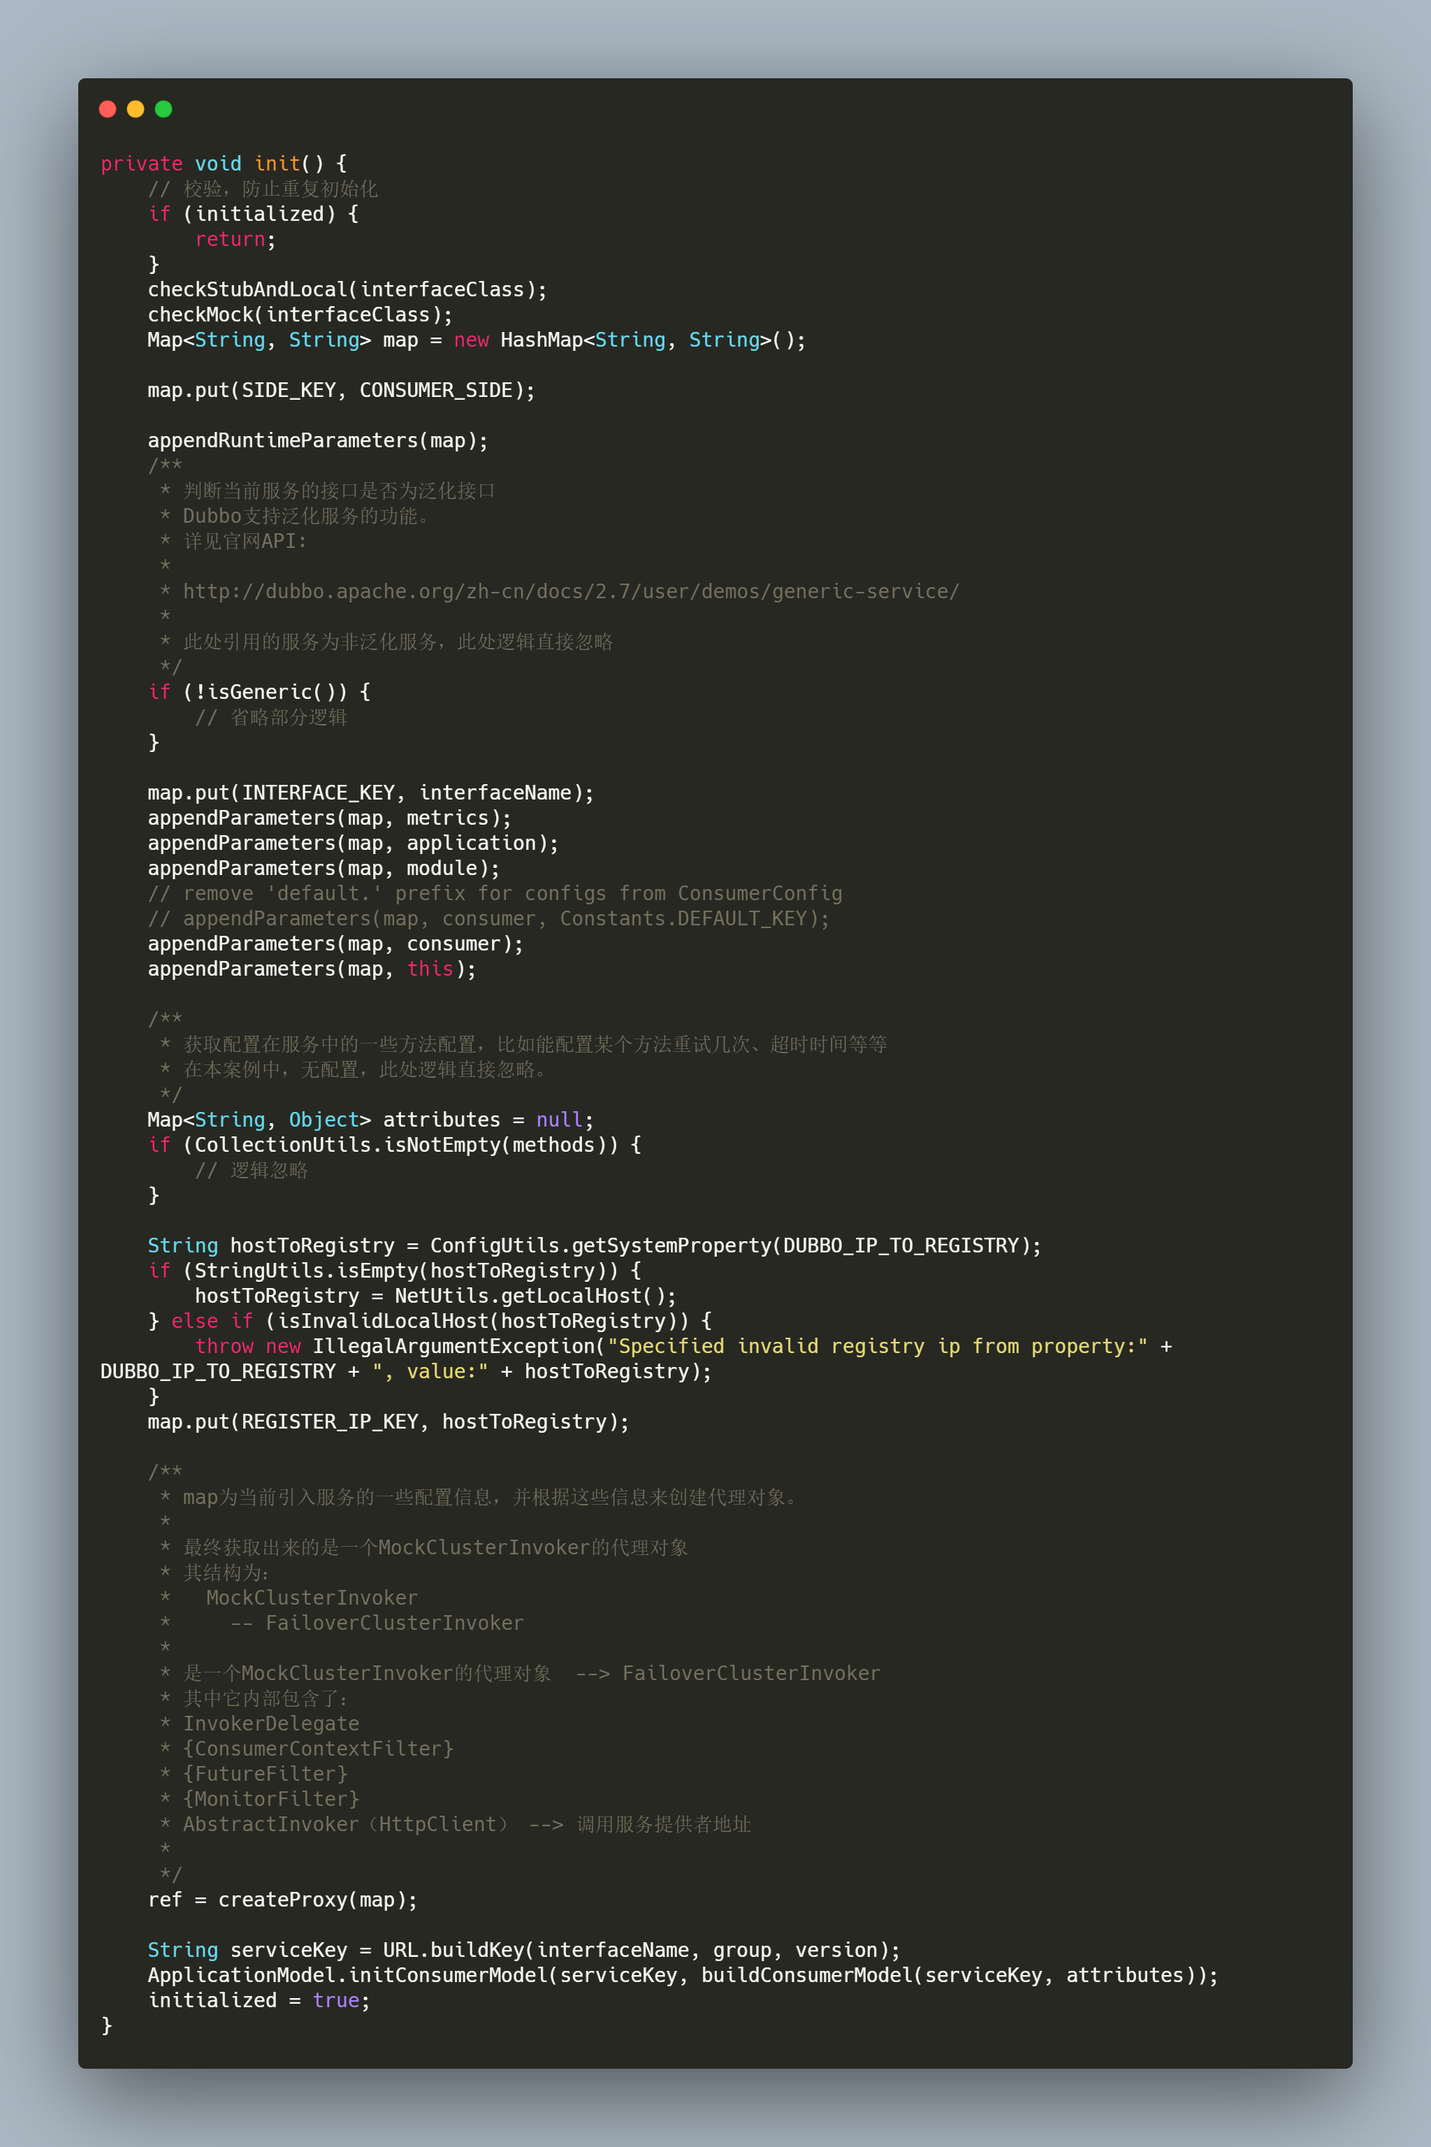
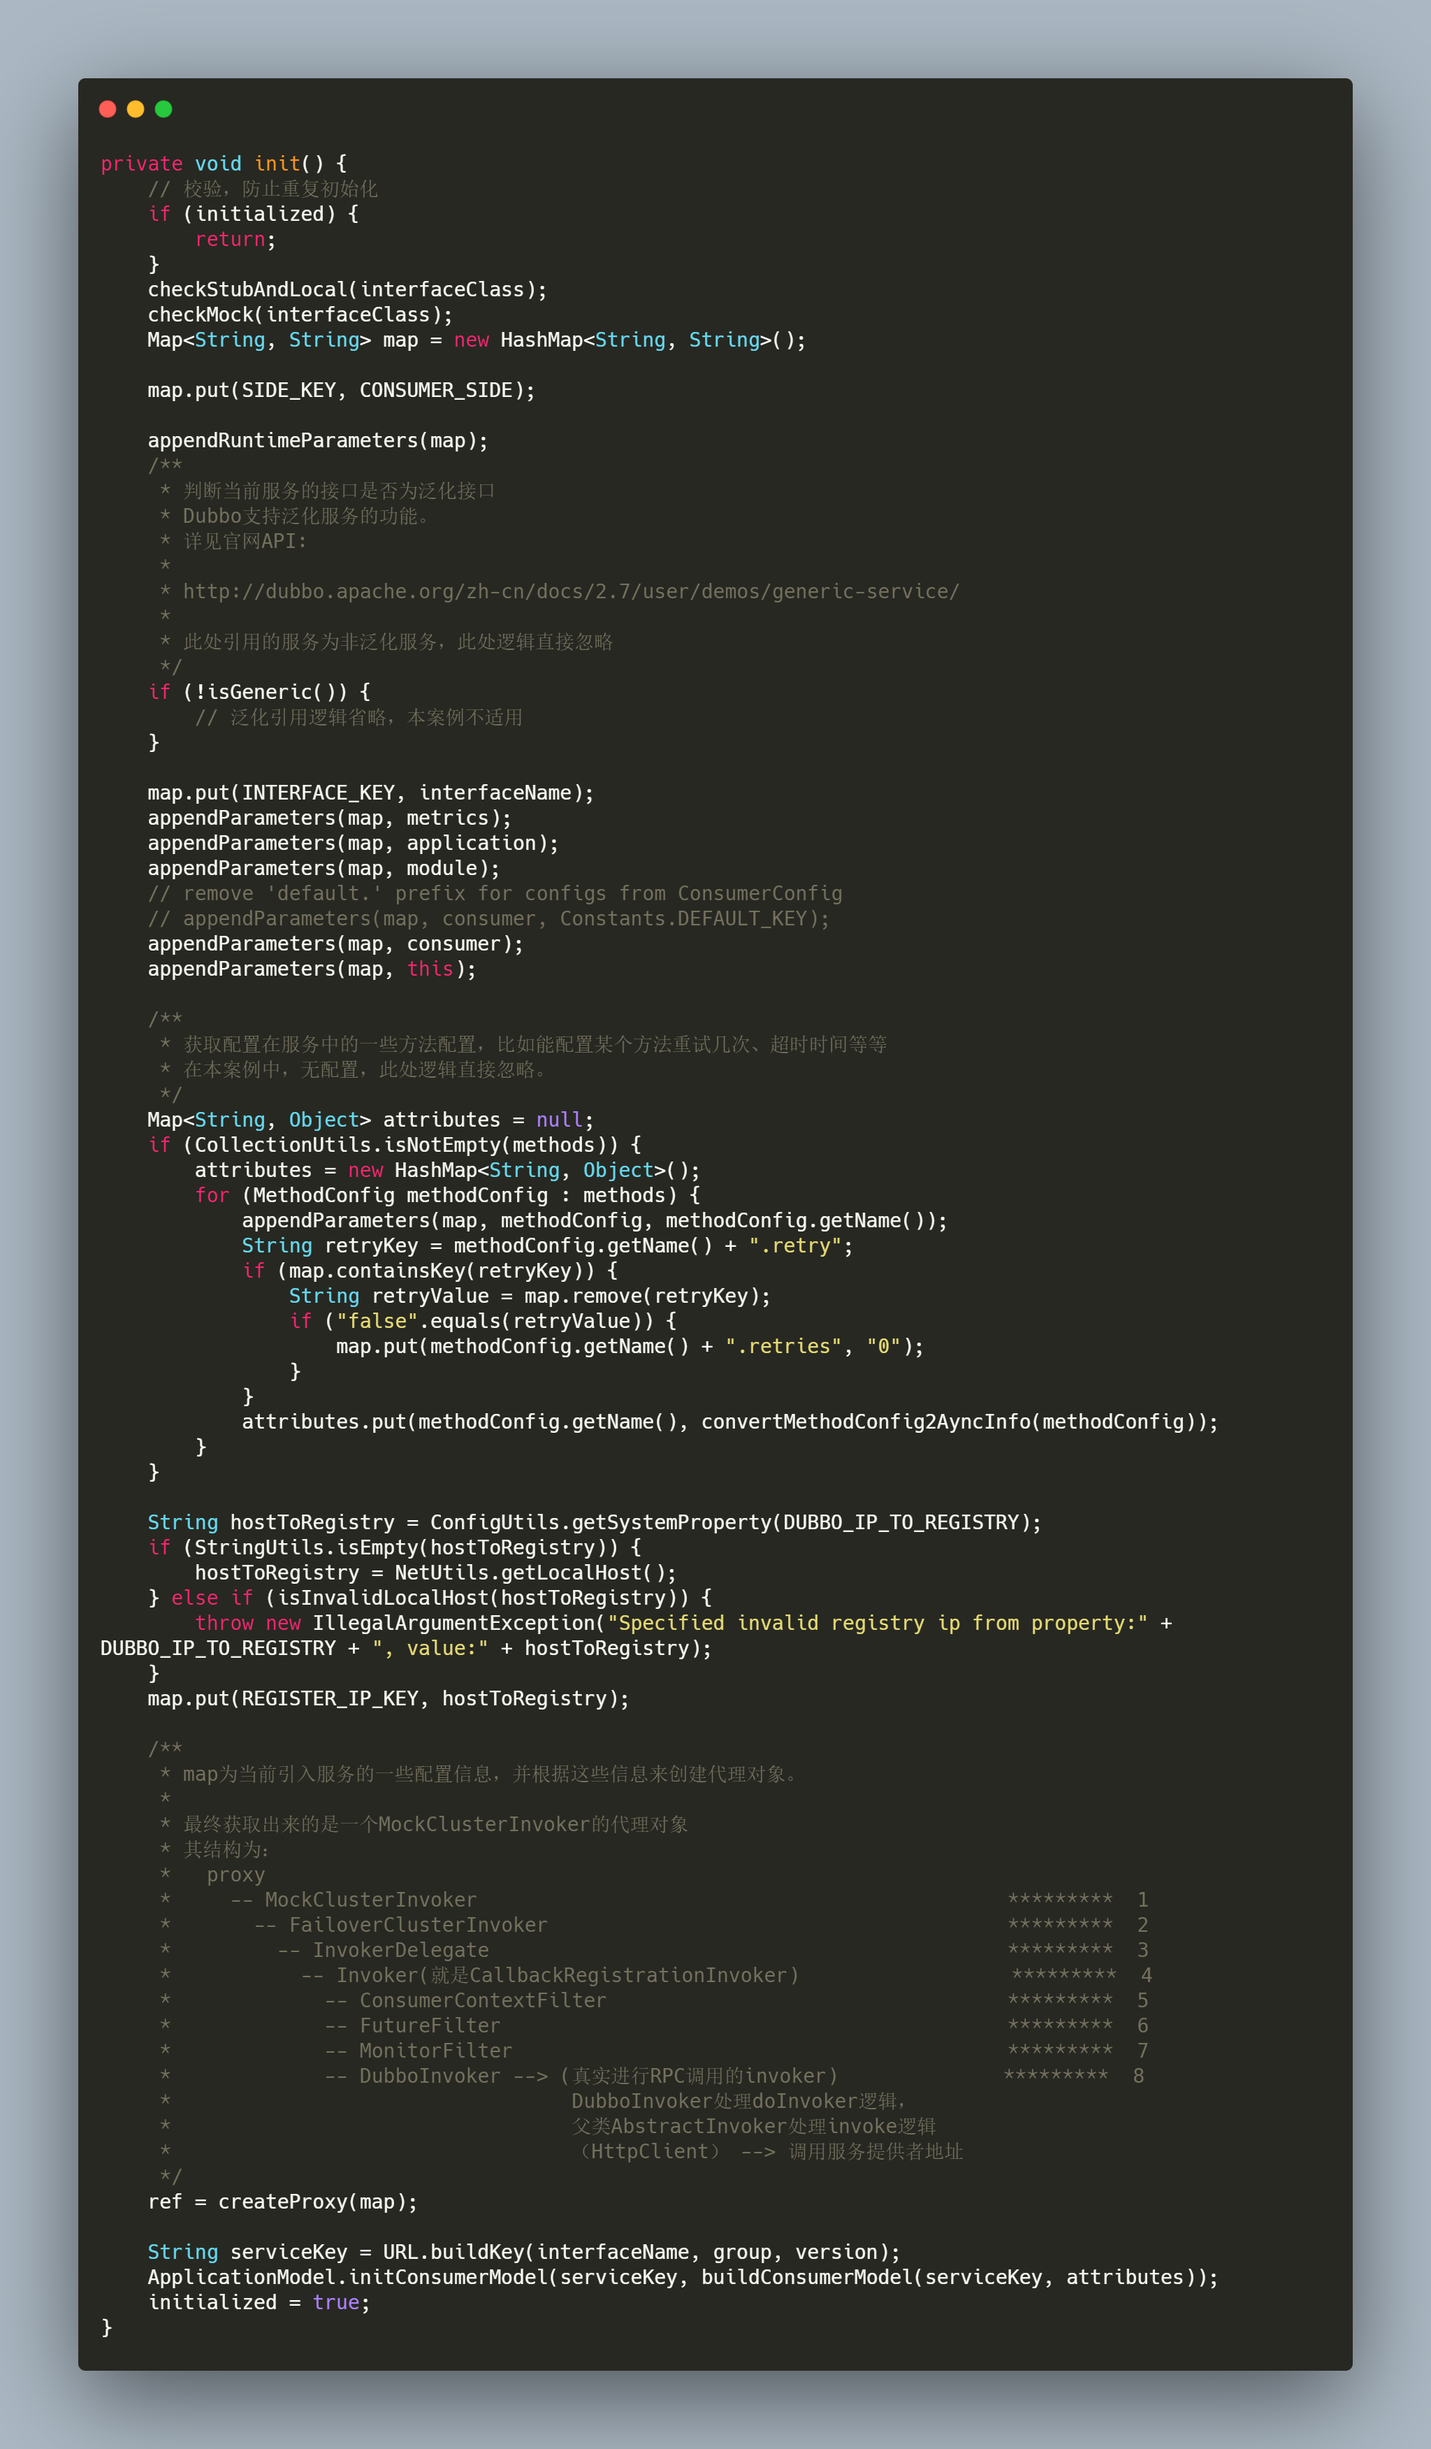
新增服务引入总结

diff --git a/dubbo/dubbo源码分析/服务引入/README.md b/dubbo/dubbo源码分析/服务引入/README.md
@@ -20,14 +20,14 @@
 
 ## 二、思考一个问题
 
-* 在Dubbo源码工程的demo模块中，有如下一段消费者远程调用的代码。**如果是你，你会怎么设计从spring容器中获取DemoService对象，并且具备远程调用功能？**
+* 在Dubbo源码工程的demo模块中，有如下一段消费者远程调用的代码。**如果是你，你会怎么去设计从spring容器中获取DemoService对象，并且具备远程调用功能？**
 
   ```java
   DemoService demoService = context.getBean("demoService", DemoService.class);
   String hello = demoService.sayHello("world");
   ```
 
-  > 由上可知，我们在消费端利用Spring上下文对象获从Spring容器中获取DemoService类型的bean，并且调用了对应的sayHello方法。这个bean究竟是怎么个结构？我们的消费端明明就没有DemoService的实现类，那它是怎么获取到的？根据上面的疑问，我们衍生出了三个问题：
+  > 由上可知，我们在消费端利用Spring上下文对象从Spring容器中获取DemoService类型的bean，并且调用了对应的sayHello方法。这个bean究竟是怎么个结构？**我们的消费端明明就没有DemoService的实现类，那它是怎么获取到的，换句话说就是什么时候创建了实现类并放入到了spring容器**？根据上面的疑问，我们衍生出了三个问题：
   >
   > 1、它的实现类是什么时候生成的？
   >
@@ -39,7 +39,7 @@
 
 ## 三、解释上述提出的三个问题
 
-* 现在是微服务时代，相信大家肯定用过SpringCloud框架吧。如果没用过也没关系，那肯定用过MyBatis ORM框架吧。我们在使用MyBatis框架时，大家可以很方便的把dao层的实现类给忽略了，直接写一个mapper接口就能实现CRUD操作，并且也能在service层依赖注入了。能实现这样的功能就是因为Spring框架的**FactoryBean**扩展点，而Dubbo在进行服务引入时，就充分利用了FactoryBean功能，Dubbo的ReferenceBean类实现了FactoryBean接口，并在getObject方法中为DemoService接口生成了代理类，并且，我们能从spring容器中获取到这个代理类(FactoryBean知识点)。因此，通过使用FactoryBean扩展点的功能后，咱们的DemoService的实现类(代理类)也生成了，也添加到Spring容器中去了。如果，我们在生成代理类的过程中，对sayHello方法逻辑进行增强，在内部添加了远程调用的功能(发送http请求给远程服务)，那是不是就实现了远程方法的调用？生成的代理类的伪代码如下所示：
+* 现在是微服务时代，相信大家肯定用过SpringCloud框架吧。如果没用过也没关系，那你一定用过MyBatis ORM框架！我们在使用MyBatis框架时，大家可以很方便的忽略dao层的实现类，直接写一个mapper接口就能实现CRUD操作，并且也能在service层依赖注入。能实现这样的功能就是因为Spring框架的**FactoryBean**扩展点，**而Dubbo在进行服务引入时，就充分利用了FactoryBean功能**，**Dubbo的`ReferenceBean`类实现了FactoryBean接口，并在getObject方法中为DemoService接口生成了代理类，并且，我们能从spring容器中获取到这个代理类(FactoryBean知识点)**。因此，通过使用FactoryBean扩展点的功能后，咱们的DemoService的实现类(**代理类**)就生成了，同时也添加到Spring容器中去了。如果，我们在生成代理类的过程中，对sayHello方法逻辑进行增强，在内部添加了远程调用的功能(发送http请求给远程服务)，那是不是就实现了远程方法的调用？生成的代理类的伪代码如下所示：
 
   ![customizeRPC.png](./customizeRPC.png)
 
@@ -51,9 +51,11 @@
 
   > Dubbo 服务引用的时机有两个，第一个是在 Spring 容器调用 ReferenceBean 的 afterPropertiesSet 方法时引用服务，第二个是在 ReferenceBean 对应的服务被注入到其他类中时引用。这两个引用服务的时机区别在于，第一个是饿汉式的，第二个是懒汉式的。默认情况下，Dubbo 使用懒汉式引用服务。如果需要使用饿汉式，可通过配置 \<dubbo:reference> 的 init 属性开启。下面我们按照 Dubbo 默认配置进行分析，整个分析过程从 ReferenceBean 的 getObject 方法开始。当我们的服务被注入到其他类中时，Spring 会第一时间调用 getObject 方法，并由该方法执行服务引用逻辑。按照惯例，在进行具体工作之前，需先进行配置检查与收集工作。接着根据收集到的信息决定服务用的方式，有三种，第一种是引用本地 (JVM) 服务，第二是通过直连方式引用远程服务，第三是通过注册中心引用远程服务。不管是哪种引用方式，最后都会得到一个 Invoker 实例。如果有多个注册中心，多个服务提供者，这个时候会得到一组 Invoker 实例，此时需要通过集群管理类 Cluster 将多个 Invoker 合并成一个实例。合并后的 Invoker 实例已经具备调用本地或远程服务的能力了，但并不能将此实例暴露给用户使用，这会对用户业务代码造成侵入。此时框架还需要通过代理工厂类 (ProxyFactory) 为服务接口生成代理类，并让代理类去调用 Invoker 逻辑。避免了 Dubbo 框架代码对业务代码的侵入，同时也让框架更容易使用。
 
-### 4.1 服务引用的两个时机(统一入口)
+###  服务引用的两个时机(统一入口)
 
-* 在官网的文档中说明了服务引用的时机有两个：第一个是ReferenceBean 的 afterPropertiesSet 方法。第二个是ReferenceBean 对应的服务被注入到其他类中时引用。其实，不管是上述的哪一种(**默认是第二种**)，最终都会进入**org.apache.dubbo.config.spring.ReferenceBean#getObject**方法。因此，我们把目光定位到**org.apache.dubbo.config.spring.ReferenceBean#getObject**方法，其内部最终会调用到**org.apache.dubbo.config.ReferenceConfig#init**方法
+* 在官网的文档中说明了服务引用的时机有两个：第一个是ReferenceBean 的 afterPropertiesSet 方法。第二个是ReferenceBean 对应的服务被注入到其他类中时引用。其实，不管是上述的哪一种(**默认是第二种**)，最终都会进入**org.apache.dubbo.config.spring.ReferenceBean#getObject**方法（**如下图所示：饿汉式源码，最终也会调用到getObject方法**）。因此，我们把目光定位到**org.apache.dubbo.config.spring.ReferenceBean#getObject**方法，其内部最终会调用到**org.apache.dubbo.config.ReferenceConfig#init**方法
+
+  ![afterPropertiesSetGetObject.png](afterPropertiesSetGetObject.png)
 
 ## 五、以官网源码工程的消费者demo为例，解析服务引入
 
@@ -72,6 +74,7 @@
   ```
 
   ```xml
+  <!-- dubbo-consumer.xml配置文件 -->
   <dubbo:application name="demo-consumer"/>
   <dubbo:registry address="zookeeper://127.0.0.1:2181" />
   <dubbo:reference id="demoService" check="false" interface="org.apache.dubbo.demo.DemoService"/>
@@ -80,4 +83,65 @@
 * 通过之前Dubbo系列的学习，**<dubbo:reference />**标签最终会对应ReferenceBean。由上述的分析，最终服务引入会定位到**org.apache.dubbo.config.ReferenceConfig#init**方法，该方法及其源码注释如下所示：
 
   ![init.png](./init.png)
+
+* 其中，生成的代理对象结构如下图所示（Debug查看，对应上图的1-8数字）
+
+  ![代理对象结构.png](代理对象结构.png)
+
+  如下表格将描述下图中每个数字对应类的作用，具体的作用后续将撰写一篇**服务调用的源码分析总结**，这里先总结下大致含义：
+
+  | 编号 |                          类名                           |                             作用                             |
+  | :--: | :-----------------------------------------------------: | :----------------------------------------------------------: |
+  |  1   |                   MockClusterInvoker                    | 顾名思义，它是一个mock的invoker，但这个mock与我们常用的mock不一样。它主要的作用是根据我们的配置来进行**服务降级**操作。可通过配置中心动态配置服务的降级配置，来达到降级的目的。 |
+  |  2   |                 FailoverClusterInvoker                  | 顾名思义，它是一个故障转移的invoker。它主要的作用是来进行**负载均衡**和**重试机制**。其主要是根据配置的负载均衡策略选择一个invoker，同时使用InvokerDelegate来包装，即最终获取的对象是编号3的InvokerDelegatei对象 |
+  |  3   | InvokerDelegate（RegistryDirectory类的InvokerDelegate） | 顾名思义，它一个委托者，委托的对象是Invoker对象，这个invoker对象不是固定的，取决于上述**FailoverClusterInvoker**负载均衡后选择的invoker对象，其实就是下面的invoker对象 |
+  |  4   |       Invoker（就是CallbackRegistrationInvoker）        | 此Invoker就是编号3中的InvokerDelegate委托的invoker对象。在此对象的invoke方法中，会调用下面编号5-8列举的四个过滤器（可配置自己自定义的过滤器） |
+  |  5   |                  ConsumerContextFilter                  |               只是在RpcContext中放置了很多参数               |
+  |  6   |                      FutureFilter                       |                           暂不清楚                           |
+  |  7   |                      MonitorFilter                      | 相当于埋点吧，在RpcContext中添加一些当前服务配置的monitor信息 |
+  |  8   |                      DubboInvoker                       |     主角：它的就用就是我们文章开头所说的，进行RPC调用。      |
+
+## 六、createProxy创建代理对象
+
+* 其源码及其注释如下所示：
+
+  ![createProxy.png](createProxy.png)
+
+* 关于`REF_PROTOCOL.refer(interfaceClass, urls.get(0))`代码生成invoker对象的逻辑，我不打算在本文中继续列举出来了，它内部充分利用了zookeeper节点的监听，通知机制。大量的**观察者设计模式**比较容易绕晕，同时内部也包含了**cluster对象对多个invoker的合并过程**。因此，我们按照**黑箱理论**来理解就行了。我们只需要知道，最终引用出来的对象结构以及内部每一个包含的含义即可（**如上述图中的表格**），同时，为了方便理解，我还描绘了一张图来更直观的查看引用出来的invoker对象结构：
+
+  ![invoker结构.png](invoker结构.png)
+
+  我用了颜色逐渐抵深的策略，来描述invoker对象，颜色最深处，则代表着invoker调用结束，即真实的RPC调用结束。
+
+* 我们只是了解了invoker对象的结构，但是它终究不是我们服务提供者的类型，因此还需要一个步骤，就是将invoker对象转化成服务提供者的类型，其核心代码就来到了`return (T) PROXY_FACTORY.getProxy(invoker)`代码。同上，在我的[Dubbo2.7.3版本源码学习系列五: 学习Dubbo服务导出源码前置知识点(ProxyFactory和Wrapper类)](https://blog.csdn.net/avengerEug/article/details/109340657)文章中，有专门总结ProxyFactory类，并且使用**Arthas**工具对ProxyFactory的自适应扩展类进行了反编译操作。在默认情况下，这个ProxyFactory就是**JavassistProxyFactory**类。我们debug后的结果如下所示：
+
+  ![javaassisit创建代理对象.png](javaassisit创建代理对象.png)
+
+  由上所示，我们最终创建出来的代理对象会实现两个接口，以及被代理对象是我们上述花了大量时间总结的MockClusterInvoker对象。至于Dubbo如何生成这个代理对象的逻辑我也不打算在这里进行总结了，这里使用的是Dubbo自己自研的动态代理方案，其实现方案就是将一个类的完整信息，包括对上述两个接口的方法的实现，然后动态编译成class文件，再使用反射创建对象。在使用Arthas工具来反编译代理后的对象的源码为如下所示：
+
+  ![refProxy对象反编译.png](refProxy对象反编译.png)
+
+  如同我们分析的一样，代理对象最终实现了**EchoService和DemoService**接口，关于它内部如何调用的过程我们在后续的**服务调用流程**的总结在细说。
+
+## 七、总结
+
+* 可能有的人还是很模糊，我们一开始的上述三个问题好像还没有一一解决，下面我们来对上述提出的三个问题做一个总结性的回答
+
+  > 1、它的实现类是什么时候生成的？
+  >
+  > 答：相信通过上述的分析我们应该很明白了，它的实现类就是在**JavassistProxyFactory**生成代理对象时动态产生的。
+  >
+  > 2、以及什么时候加到spring容器中去的？
+  >
+  > 答：此问题属于spring的FactoryBean知识点，FactoryBean的getObject方法返回的对象也会被加入到spring容器中去。
+  >
+  > 3、这个实现类是怎么调用到远程方法的？
+  >
+  > 答：此问题也比较简单，上面也说到过，是在DubboInvoker的**org.apache.dubbo.rpc.protocol.dubbo.DubboInvoker#doInvokes**方法完成的。
+
+* 本次服务引入的总结，咱们对引入出来的invoker对象的结构以及内部维护的每个对象的作用都有了一个大概的了解。当然，对于FutureFilter而言，还不清楚它的实际作用，希望能后续再来补充它。
+
+* **如果你觉得我的文章有用的话，欢迎点赞、收藏和关注。:laughing:**
+
+* **I'm a slow walker, but I never walk backwards**
 
